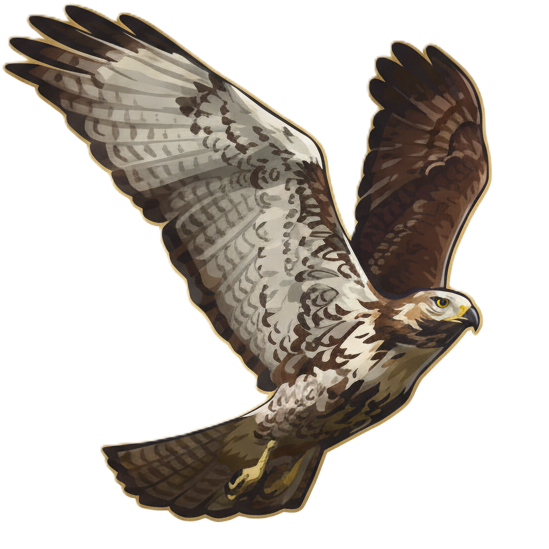
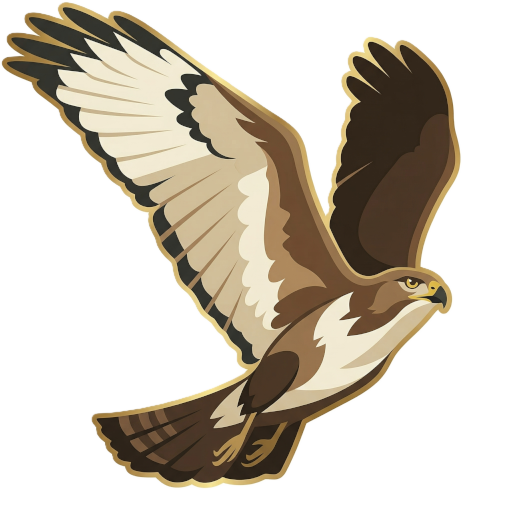
updates

Changed region(s): [[0.0, 0.0, 0.9062, 0.9688]]

diff --git a/sortutils/sortutils_test.go b/sortutils/sortutils_test.go
@@ -1,0 +1,129 @@
+package sortutils
+
+import (
+	"os"
+	"reflect"
+	"sort"
+	"testing"
+	"time"
+)
+
+// mockFileInfo implements os.FileInfo for testing
+type mockFileInfo struct {
+	name    string
+	modTime time.Time
+}
+
+func (m mockFileInfo) Name() string       { return m.name }
+func (m mockFileInfo) Size() int64        { return 0 }
+func (m mockFileInfo) Mode() os.FileMode  { return 0 }
+func (m mockFileInfo) ModTime() time.Time { return m.modTime }
+func (m mockFileInfo) IsDir() bool        { return false }
+func (m mockFileInfo) Sys() any           { return nil }
+
+func TestDescendingTime(t *testing.T) {
+	now := time.Now()
+	files := []os.FileInfo{
+		mockFileInfo{name: "file_old.jpg", modTime: now.Add(-10 * time.Minute)},
+		mockFileInfo{name: "file_new_a.jpg", modTime: now},
+		mockFileInfo{name: "file_new_b.jpg", modTime: now},
+		mockFileInfo{name: "file_mid.jpg", modTime: now.Add(-5 * time.Minute)},
+	}
+
+	sort.Sort(DescendingTime(files))
+
+	expectedNames := []string{
+		"file_new_b.jpg", // same time as file_new_a.jpg, but lexicographically greater
+		"file_new_a.jpg",
+		"file_mid.jpg",
+		"file_old.jpg",
+	}
+
+	for i, f := range files {
+		if f.Name() != expectedNames[i] {
+			t.Errorf("At index %d: expected %s, got %s", i, expectedNames[i], f.Name())
+		}
+	}
+}
+
+func TestDescendingTimeName(t *testing.T) {
+	tests := []struct {
+		name     string
+		input    []string
+		expected []string
+	}{
+		{
+			name: "Different timestamps",
+			input: []string{
+				"monitor_2026_06_27_12_00_00_000000000_Highlighted.jpg",
+				"monitor_2026_06_27_13_00_00_000000000_Highlighted.jpg",
+				"monitor_2026_06_27_11_00_00_000000000_Highlighted.jpg",
+			},
+			expected: []string{
+				"monitor_2026_06_27_13_00_00_000000000_Highlighted.jpg",
+				"monitor_2026_06_27_12_00_00_000000000_Highlighted.jpg",
+				"monitor_2026_06_27_11_00_00_000000000_Highlighted.jpg",
+			},
+		},
+		{
+			name: "Same timestamps, different suffixes",
+			input: []string{
+				"monitor_2026_06_27_12_00_00_000000000_Original.jpg",
+				"monitor_2026_06_27_12_00_00_000000000_Highlighted.jpg",
+			},
+			expected: []string{
+				"monitor_2026_06_27_12_00_00_000000000_Original.jpg", // 'O' > 'H'
+				"monitor_2026_06_27_12_00_00_000000000_Highlighted.jpg",
+			},
+		},
+		{
+			name: "Missing timestamps",
+			input: []string{
+				"no_timestamp_b.jpg",
+				"monitor_2026_06_27_12_00_00_000000000_Highlighted.jpg",
+				"no_timestamp_a.jpg",
+			},
+			expected: []string{
+				"monitor_2026_06_27_12_00_00_000000000_Highlighted.jpg",
+				"no_timestamp_b.jpg", // 'b' > 'a'
+				"no_timestamp_a.jpg",
+			},
+		},
+	}
+
+	for _, tt := range tests {
+		t.Run(tt.name, func(t *testing.T) {
+			inputCopy := make([]string, len(tt.input))
+			copy(inputCopy, tt.input)
+			sort.Sort(DescendingTimeName(inputCopy))
+			if !reflect.DeepEqual(inputCopy, tt.expected) {
+				t.Errorf("expected %v, got %v", tt.expected, inputCopy)
+			}
+		})
+	}
+}
+
+func TestAscendingTime(t *testing.T) {
+	now := time.Now()
+	files := []os.FileInfo{
+		mockFileInfo{name: "file_old.jpg", modTime: now.Add(-10 * time.Minute)},
+		mockFileInfo{name: "file_new_b.jpg", modTime: now},
+		mockFileInfo{name: "file_new_a.jpg", modTime: now},
+		mockFileInfo{name: "file_mid.jpg", modTime: now.Add(-5 * time.Minute)},
+	}
+
+	sort.Sort(AscendingTime(files))
+
+	expectedNames := []string{
+		"file_old.jpg",
+		"file_mid.jpg",
+		"file_new_a.jpg", // same time as file_new_b.jpg, but lexicographically smaller
+		"file_new_b.jpg",
+	}
+
+	for i, f := range files {
+		if f.Name() != expectedNames[i] {
+			t.Errorf("At index %d: expected %s, got %s", i, expectedNames[i], f.Name())
+		}
+	}
+}

diff --git a/sortutils/sortutils.go b/sortutils/sortutils.go
@@ -1,0 +1,52 @@
+package sortutils
+
+import (
+	"os"
+
+	"github.com/jonoton/go-dir"
+)
+
+// DescendingTime sorts []os.FileInfo by modification time descending,
+// falling back to filename descending if modification times are equal.
+type DescendingTime []os.FileInfo
+
+func (s DescendingTime) Len() int      { return len(s) }
+func (s DescendingTime) Swap(i, j int) { s[i], s[j] = s[j], s[i] }
+func (s DescendingTime) Less(i, j int) bool {
+	t1 := s[i].ModTime()
+	t2 := s[j].ModTime()
+	if !t1.Equal(t2) {
+		return t1.After(t2)
+	}
+	return s[i].Name() > s[j].Name()
+}
+
+// DescendingTimeName sorts []string by timestamp in name descending,
+// falling back to the full filename descending if timestamps are equal or missing.
+type DescendingTimeName []string
+
+func (s DescendingTimeName) Len() int      { return len(s) }
+func (s DescendingTimeName) Swap(i, j int) { s[i], s[j] = s[j], s[i] }
+func (s DescendingTimeName) Less(i, j int) bool {
+	first := dir.FilenameTimestampRegex.FindString(s[i])
+	second := dir.FilenameTimestampRegex.FindString(s[j])
+	if first != second {
+		return first > second
+	}
+	return s[i] > s[j]
+}
+
+// AscendingTime sorts []os.FileInfo by modification time ascending,
+// falling back to filename ascending if modification times are equal.
+type AscendingTime []os.FileInfo
+
+func (s AscendingTime) Len() int      { return len(s) }
+func (s AscendingTime) Swap(i, j int) { s[i], s[j] = s[j], s[i] }
+func (s AscendingTime) Less(i, j int) bool {
+	t1 := s[i].ModTime()
+	t2 := s[j].ModTime()
+	if !t1.Equal(t2) {
+		return t1.Before(t2)
+	}
+	return s[i].Name() < s[j].Name()
+}

diff --git a/http/http.go b/http/http.go
@@ -30,6 +30,7 @@ import (
 	"github.com/jonoton/go-memory"
 	"github.com/jonoton/go-runtime"
 	"github.com/jonoton/scout/manage"
+	"github.com/jonoton/scout/sortutils"
 	logrus "github.com/sirupsen/logrus"
 	"github.com/valyala/bytebufferpool"
 
@@ -418,7 +419,7 @@ func (h *Http) alertsListHandler(c *fiber.Ctx) error {
 	data := make([]string, 0)
 	files, _ := dir.Expired(filepath.Clean(h.manage.GetDataDirectory()+"/alerts"),
 		dir.RegexEndsWith(".jpg"), time.Now(), time.Duration(5)*time.Second)
-	sort.Sort(dir.DescendingTime(files))
+	sort.Sort(sortutils.DescendingTime(files))
 	for _, fileInfo := range files {
 		data = append(data, fileInfo.Name())
 	}
@@ -431,7 +432,7 @@ func (h *Http) alertsListHandler(c *fiber.Ctx) error {
 		}
 	}
 	if needSort {
-		sort.Sort(dir.DescendingTimeName(data))
+		sort.Sort(sortutils.DescendingTimeName(data))
 	}
 	return c.JSON(data)
 }
@@ -471,7 +472,7 @@ func (h *Http) recordingsListHandler(c *fiber.Ctx) error {
 	data := make([]string, 0)
 	files, _ := dir.Expired(filepath.Clean(h.manage.GetDataDirectory()+"/recordings"),
 		dir.RegexEndsWithBeforeExt("Portable"), time.Now(), time.Duration(5)*time.Second)
-	sort.Sort(dir.DescendingTime(files))
+	sort.Sort(sortutils.DescendingTime(files))
 	for _, fileInfo := range files {
 		data = append(data, fileInfo.Name())
 	}
@@ -484,7 +485,7 @@ func (h *Http) recordingsListHandler(c *fiber.Ctx) error {
 		}
 	}
 	if needSort {
-		sort.Sort(dir.DescendingTimeName(data))
+		sort.Sort(sortutils.DescendingTimeName(data))
 	}
 	return c.JSON(data)
 }
@@ -524,7 +525,7 @@ func (h *Http) continuousListHandler(c *fiber.Ctx) error {
 	data := make([]string, 0)
 	files, _ := dir.Expired(filepath.Clean(h.manage.GetDataDirectory()+"/continuous"),
 		dir.RegexEndsWithBeforeExt("Portable"), time.Now(), time.Duration(5)*time.Second)
-	sort.Sort(dir.DescendingTime(files))
+	sort.Sort(sortutils.DescendingTime(files))
 	for _, fileInfo := range files {
 		data = append(data, fileInfo.Name())
 	}
@@ -537,7 +538,7 @@ func (h *Http) continuousListHandler(c *fiber.Ctx) error {
 		}
 	}
 	if needSort {
-		sort.Sort(dir.DescendingTimeName(data))
+		sort.Sort(sortutils.DescendingTimeName(data))
 	}
 	return c.JSON(data)
 }

diff --git a/monitor/record.go b/monitor/record.go
@@ -13,6 +13,7 @@ import (
 	"github.com/jonoton/go-dir"
 	pubsubmutex "github.com/jonoton/go-pubsubmutex"
 	"github.com/jonoton/go-videosource"
+	"github.com/jonoton/scout/sortutils"
 )
 
 const topicRecordImages = "topic-record-images"
@@ -135,7 +136,7 @@ func (r *Record) deleteWhenFull() {
 	dirSize, _ := dir.Size(r.saveDirectory, dir.RegexBeginsWith(r.name))
 	if int(math.Ceil(dir.BytesToGigaBytes(dirSize))) > r.RecordConf.DeleteAfterGB {
 		files, _ := dir.List(r.saveDirectory, dir.RegexBeginsWith(r.name))
-		sort.Sort(dir.AscendingTime(files))
+		sort.Sort(sortutils.AscendingTime(files))
 		for _, fileInfo := range files {
 			if int(math.Ceil(dir.BytesToGigaBytes(dirSize))) <= r.RecordConf.DeleteAfterGB {
 				break